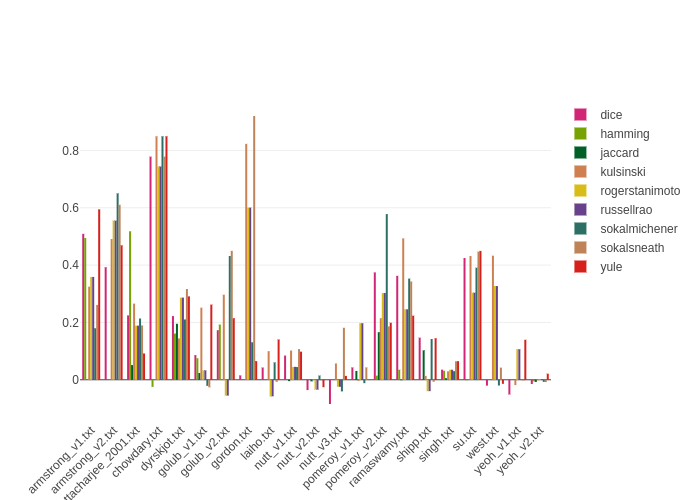
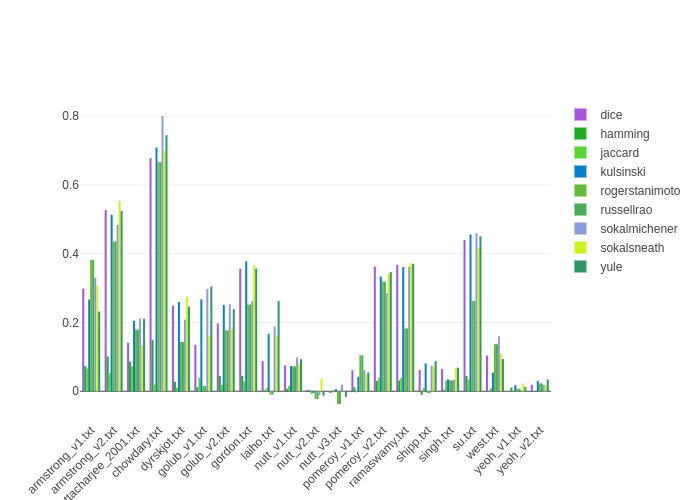
fix...

diff --git a/ari_scores_binary_percentage_normed.py b/ari_scores_binary_percentage_normed.py
@@ -39,7 +39,7 @@ def ari_scores_binary_percentage_normed(data,labels,file,p1,p2):
         ari_rogerstanimoto = ari_rogerstanimoto+metrics.adjusted_rand_score(lbls,rogerstanimoto_label)
 #radi normalno
         russellrao_label = k_means(data, np.max(np.unique(labels)), russellrao)
-        ari_russellrao =ari_russellrao+ari_russellrao+ metrics.adjusted_rand_score(lbls,russellrao_label)
+        ari_russellrao =ari_russellrao+ metrics.adjusted_rand_score(lbls,russellrao_label)
 #radi normalno
 
         sokalmichener_label = k_means(data, np.max(np.unique(labels)), sokalmichener)
@@ -52,7 +52,8 @@ def ari_scores_binary_percentage_normed(data,labels,file,p1,p2):
         yule_label = k_means(data, np.max(np.unique(labels)), yule)
         ari_yule = ari_yule +metrics.adjusted_rand_score(lbls,yule_label)
 #radi normalno
-    tmp = np.array([ari_dice,ari_hamming,ari_jaccard,ari_rogerstanimoto,ari_russellrao,ari_russellrao,ari_sokalmichener,ari_sokalsneath,ari_yule])/25
-
-    return [file,tmp.tolist()]
+    tmp = [ari_dice,ari_hamming,ari_jaccard,ari_rogerstanimoto,ari_russellrao,ari_russellrao,ari_sokalmichener,ari_sokalsneath,ari_yule]
+    tmp = [x / 25 for x in tmp ]
+    tmp.insert(0,file)
+    return tmp
 

diff --git a/ari_normed_scores.py b/ari_normed_scores.py
@@ -36,6 +36,7 @@ for i in range(0,len(data_file_names)):
 print('\n')
 print(scores)
 
+scores = [item[0] for item in scores]
 row =1
 col =0
 
@@ -47,13 +48,17 @@ col = 0
 
 for file_scores in scores:
     for item in file_scores:
-        worksheet.write(row,col,item)
-        col = col +1
+       worksheet.write(row,col,item)
+       col = col +1
     row = row +1
     col =0
 
 data_book.close()
+
+
+
 scrs = [scores[i][1:10] for i in range(0,21)]
+
 scrs = np.array(scrs)
 
 trace = []
@@ -95,5 +100,3 @@ pio.write_image(fig, file='/home/vladimir/Desktop/po_projekat/Affy/ARI/ari_norme
 # uradi u zasebnom fajlu nove normalizacije i ARI
 
 # proveri funkcije dal rade... na prvi pogled sve deluje okej 
-
-

diff --git a/ari_scores_znormed.py b/ari_scores_znormed.py
@@ -56,9 +56,10 @@ def ari_scores_znormed(data,labels,name):
         eucl_label = k_means(data, np.max(np.unique(labels)), euclidean)
         ari_eucl = ari_eucl + metrics.adjusted_rand_score(lbls,eucl_label)
 #radi normalno
-    tmp = np.array([ari_cosine,ari_braycurtis,ari_correlation,ari_canberra,ari_wasserstein,ari_energy,ari_kulczynski,ari_eucl]) / 25
-
-    return [name, tmp.tolist()]
+    tmp = [ari_cosine,ari_braycurtis,ari_correlation,ari_canberra,ari_wasserstein,ari_energy,ari_kulczynski,ari_eucl]
+    tmp = [x / 25 for x in tmp ]
+    tmp.insert(0,name)
+    return tmp
 
 # -*- coding: utf-8 -*-
 #ari_hellinger

diff --git a/ari_scores_normed.py b/ari_scores_normed.py
@@ -56,6 +56,9 @@ def ari_scores_normed(data,labels,name):
         eucl_label = k_means(data, np.max(np.unique(labels)), euclidean)
         ari_eucl = ari_eucl + metrics.adjusted_rand_score(lbls,eucl_label)
 #radi normalno
-    tmp = np.array([ari_cosine,ari_braycurtis,ari_correlation,ari_canberra,ari_hellinger,ari_wasserstein,ari_energy,ari_kulczynski,ari_eucl]) / 25
 
-    return [name, tmp.tolist()]
+    tmp =  [ari_cosine,ari_braycurtis,ari_correlation,ari_canberra,ari_hellinger,ari_wasserstein,ari_energy,ari_kulczynski,ari_eucl]
+
+    tmp = [x / 25 for x in tmp ]
+    tmp.insert(0,name)
+    return [tmp]

diff --git a/ari_scores_percentage_normed.py b/ari_scores_percentage_normed.py
@@ -57,8 +57,9 @@ def ari_scores_percentage_normed(data,labels,file,p1,p2):
         ari_eucl = ari_eucl + metrics.adjusted_rand_score(lbls,eucl_label)
 #radi normalno
     tmp = np.array([ari_cosine,ari_braycurtis,ari_correlation,ari_canberra,ari_hellinger,ari_wasserstein,ari_energy,ari_kulczynski,ari_eucl]) / 25
-
-    return [file, tmp.tolist()]
+    tmp = [x / 25 for x in tmp ]
+    tmp.insert(0,file)
+    return tmp
 
 
 
